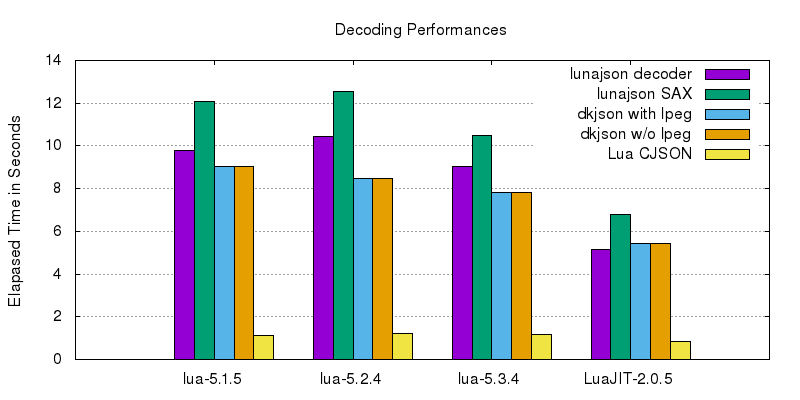
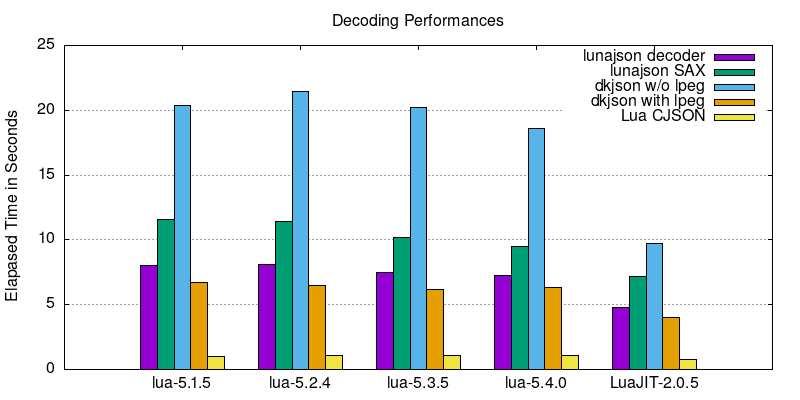
update benchmark

diff --git a/README.md b/README.md
@@ -1,7 +1,7 @@
 # ![Lunajson](logo/lunajson.png)
 [![CircleCI](https://circleci.com/gh/grafi-tt/lunajson.svg?style=shield)](https://circleci.com/gh/grafi-tt/lunajson)
 
-Lunajson features SAX-style JSON parser and simple JSON decoder/encoder. It is tested on Lua 5.1, Lua 5.2, Lua 5.3, and LuaJIT 2.0.
+Lunajson features SAX-style JSON parser and simple JSON decoder/encoder. It is tested on Lua 5.1, Lua 5.2, Lua 5.3, Lua 5.4, and LuaJIT 2.0.
 It is written only in pure Lua and has no dependencies. Even so, decoding speed matches lpeg-based JSON implementations because it is carefully optimized.
 The parser and decoder reject input that is not conformant to the JSON specification (ECMA-404), and the encoder always yields conformant output.
 The parser and decoder also handle UTF/Unicode surrogate pairs correctly.
@@ -73,12 +73,12 @@ Return the byte of current position as a number. If input is ended, it returns `
 Return the `n`-length string starting from current position, and increase the index by `n`. If the input ends, the returned string and the updated position will be truncated.
 
 ## Benchmark
-Following graphs are the results of the benchmark, decoding [`simple.json`](test/decodeparse/benchjson/simple.json) (about 750KiB) 100 times and encoding [`simple.lua`](test/encode/benchdata/simple.lua) (the decoded result of `simple.json`) 100 times. I conducted benchmarks of lunajson 1.0, [dkjson 2.5](http://dkolf.de/src/dkjson-lua.fsl/home) and [Lua CJSON 2.1.0](http://www.kyne.com.au/~mark/software/lua-cjson.php). Dkjson is a popular JSON encoding/decoding library in Lua, which is written in Lua and optionally uses [lpeg](http://www.inf.puc-rio.br/~roberto/lpeg/) to spped up decoding. Lua CJSON is a JSON encoding/decoding library implemented in C and is inherently fast.
+Following graphs are the results of the benchmark, decoding [`simple.json`](test/decodeparse/benchjson/simple.json) (about 750KiB) 100 times and encoding [`simple.lua`](test/encode/benchdata/simple.lua) (the decoded result of `simple.json`) 100 times. I conducted benchmarks of lunajson 1.2.3, [dkjson 2.5](http://dkolf.de/src/dkjson-lua.fsl/home) and [Lua CJSON 2.1.0](http://www.kyne.com.au/~mark/software/lua-cjson.php). Dkjson is a popular JSON encoding/decoding library in Lua, which is written in Lua and optionally uses [lpeg 1.0.2](http://www.inf.puc-rio.br/~roberto/lpeg/) to spped up decoding. Lua CJSON is a JSON encoding/decoding library implemented in C and is inherently fast.
 
 ![The graph of decoding benchmark results](result/decode-simple.png)
 
 ![The graph of encoding benchmark results](result/encode-simple.png)
 
-This benchmark is conducted in my desktop machine that equips Core i5 3550K and DDR3-1600 memory. Lua implementations and concerning modules are compiled by GCC 4.9.2 with `-O2 -march=ivybridge -mtune=ivybridge` options. The versions of lua implementations are the newest official releases at the time of benchmark. The version of lpeg is 0.12.2.
+This benchmark is conducted in my desktop machine that equips Ryzen 7 2700X and DDR4-3200 memory. Lua interpreters and modules are compiled by GCC 8.4.0 with default option set by Makefile.
 
 In this benchmark Lunajson performs well considering that it is implemented only in standard Lua, especially in LuaJIT 2.0 benchmark. Lunajson also supplies incremental parsing in a SAX-style API, therfore you don't have to load whole large JSON files into memory in order to scan the information you're interested in from them. Lunajson is especially useful when non-standard libraries cannot be used easily or incremental parsing is favored.
